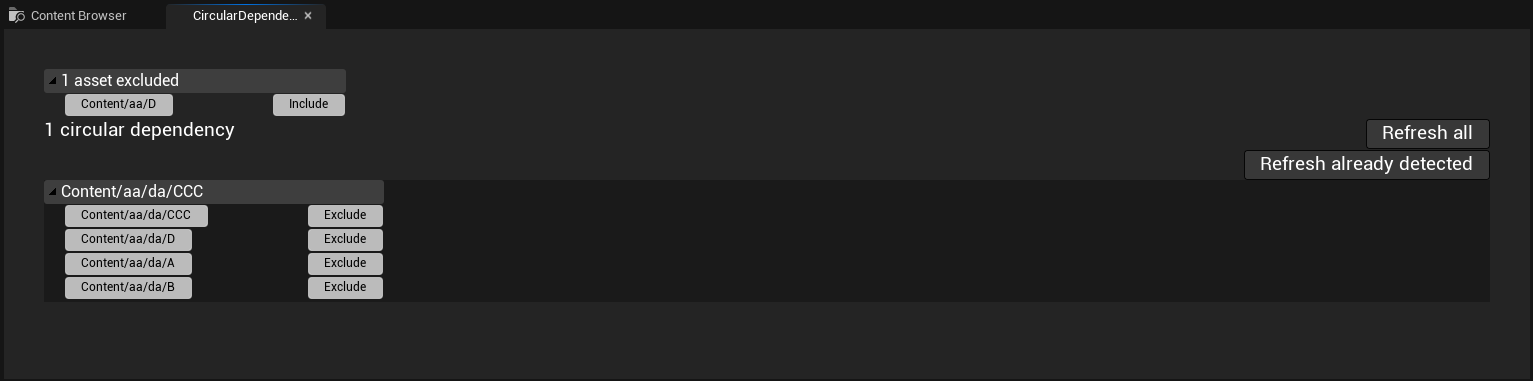
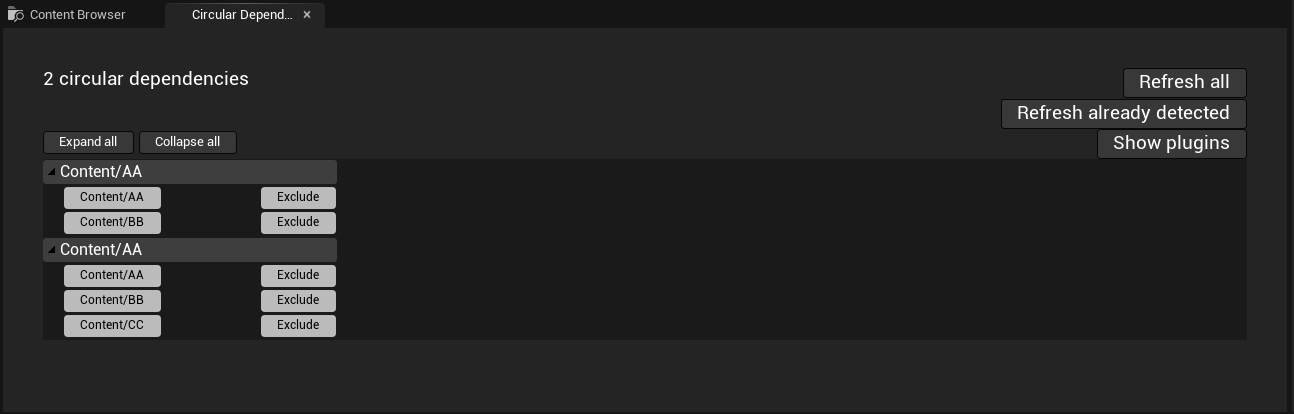
v1.6.1
show plugins

diff --git a/README.md b/README.md
@@ -37,6 +37,8 @@ You can freely **get the plugin via the Unreal Engine marketplace** in order to 
 
 ##### 1.6. [Exclude button](#16-Exclude-button-1)
 
+##### 1.7. [Show plugins](#17-Show-plugins-1)
+
 #### 2. [Configuration](#2-Configuration-1)
 
 ##### 2.1. [Show On Startup](#21-Show-On-Startup-1)
@@ -146,6 +148,14 @@ For each excluded asset, you can press the **Include button** in order to includ
 
 [Table of contents](#Table-of-contents)
 
+#### 1.7. Show plugins
+
+By default, the plugin is only searching circular dependencies in the project. You can click on the **Show plugins** button and select the plugins you want to include in the search.
+
+![Show plugins](Documentation/Images/1_71-ShowPlugins.png)
+
+[Table of contents](#Table-of-contents)
+
 ### 2. Configuration
 
 You can change CDD option in ***Editor Preferences/Plugins/Circular Dependencies Detector.***
@@ -187,7 +197,7 @@ _(A -> B means A depends on B)_
 
 #### 3.1. Use interfaces
 
-[Dependency injection pattern](https://en.wikipedia.org/wiki/Dependency_injection) is a simple way to resolve dependencies problem.
+[Dependency inversion principle](https://en.wikipedia.org/wiki/Dependency_inversion_principle#Implementations) is a simple way to resolve dependencies problem.
 
 **Solution :**  
 Move the functions funcB1 and funcB2 in an interface B_Interface and call the functions from the interface instead of the class B.
